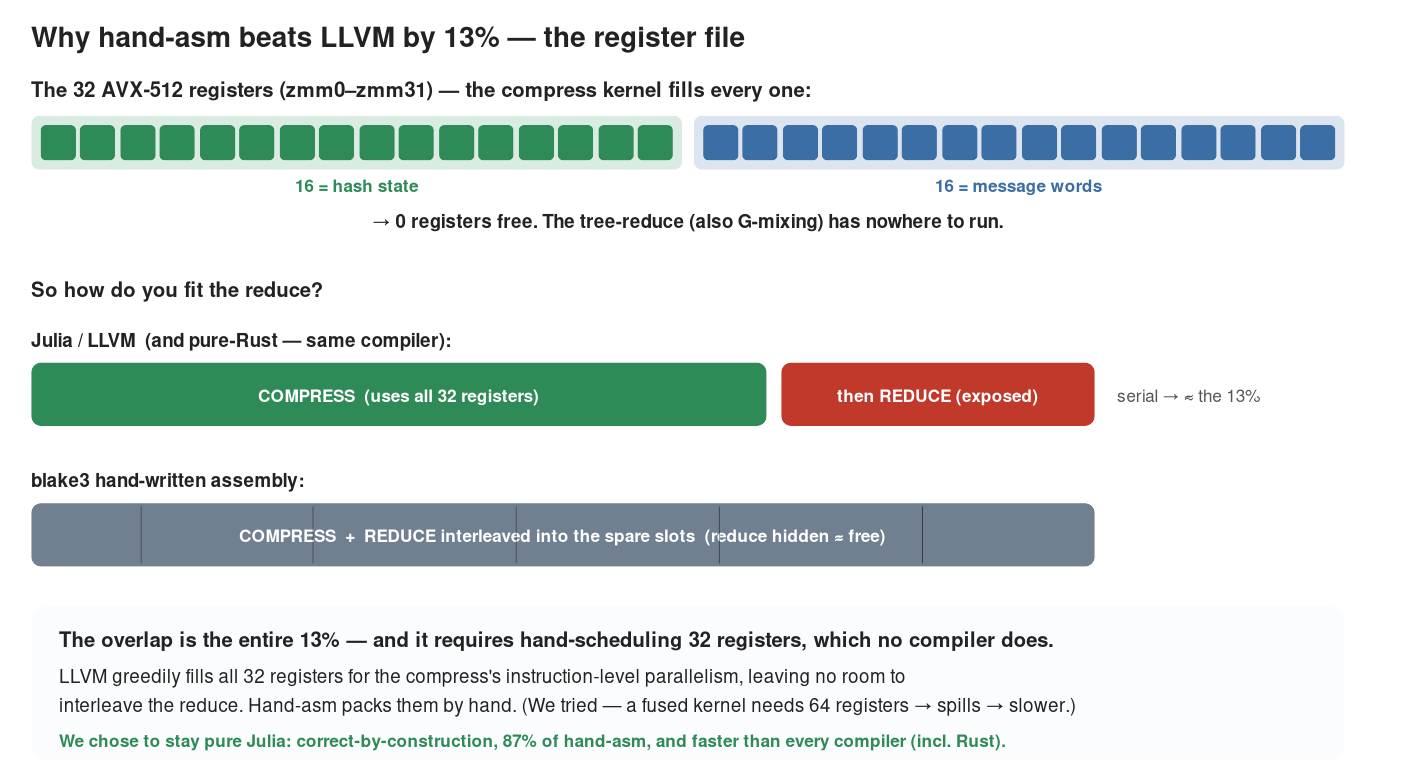
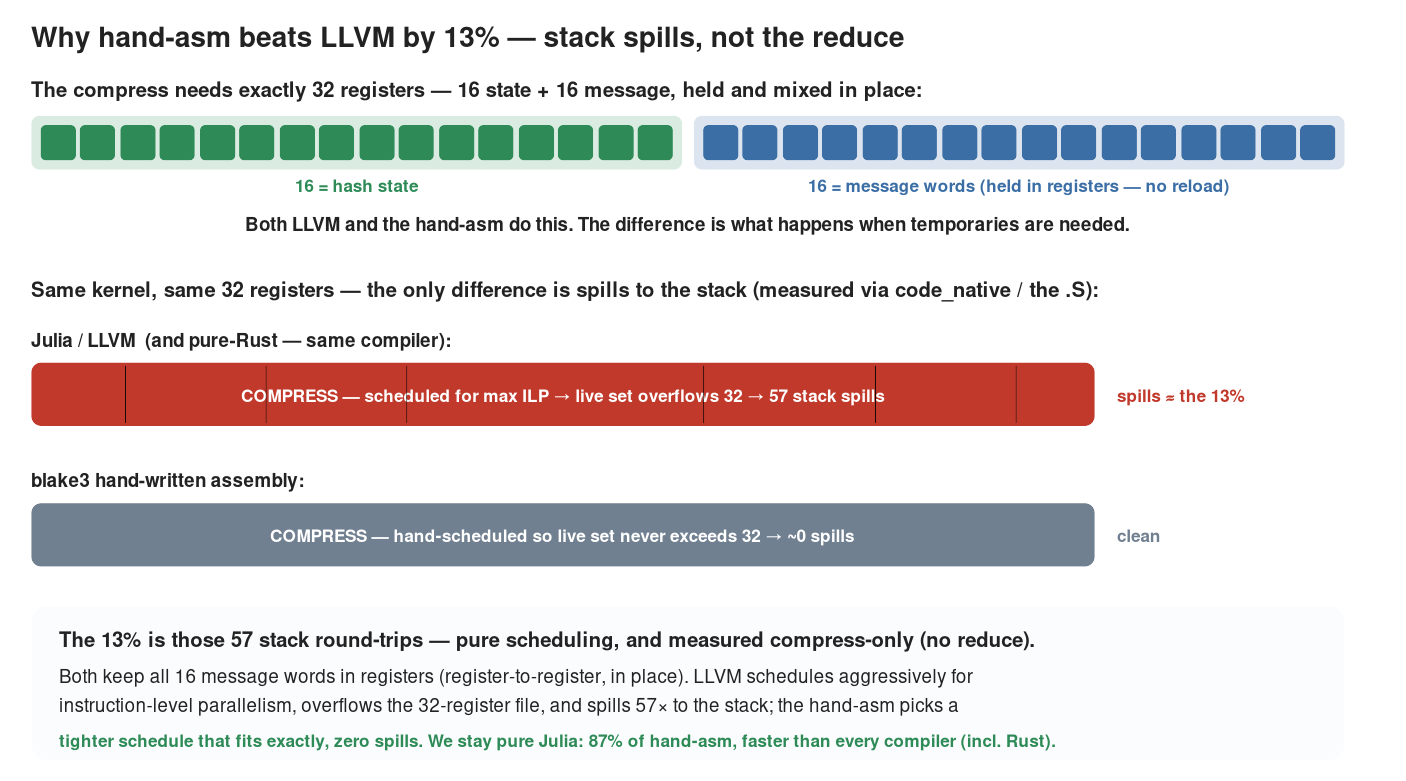
blake3 docs: correct the 13% — it's 57 compress spills, not the reduce
Read blake3's blake3_avx512_x86-64_unix.S next to our code_native. Both kernels are
identical in shape: 32 zmm, 16 message words HELD register-to-register (blake3 = 348/350
round adds reg-to-reg; it does NOT reload to free registers). The only structural
difference is stack spills: blake3 asm ~0, our _compress_N_chunks_body = 57. The asm
hand-schedules to fit exactly 32 live; LLVM schedules for ILP, overflows, spills 57x. That
spill traffic is the 13% — and it is compress-only, the tree-reduce is never involved.

The earlier "register-saturation prevents overlapping the reduce" framing (ports.md +
register SVG) was a misdiagnosis. Rewrote the ports.md blake3 section to the measured spill
table and regenerated blake3_registers.svg/.png to the spill story.

Claude-Session: https://claude.ai/code/session_01SMHDYNdKU21E2VSQTEJcfH

diff --git a/docs/src/ports.md b/docs/src/ports.md
@@ -60,19 +60,27 @@ its bundled `.S` the crate falls back to 8-wide AVX2 and loses to our 16-wide. *
 isn't beating us — a hand-written assembly file is**, and that asm out-runs what *either* language's
 compiler emits by 13%.
 
-### Why the assembly is faster — and why no compiler closes it
+### Why the assembly is faster — it's stack spills, measured
 
 ![Register file: why hand-asm wins](assets/blake3_registers.png)
 
-The compress kernel fills **all 32 AVX-512 registers** (16 hash-state + 16 message words). We measured it
-directly with `code_native`: 32/32 zmm used, 53 spills — *register-saturated*. The tree-reduce is the same
-G-mixing; to hide it inside the compress's spare execution-port slots you'd need free registers, and there
-are none. Hand-asm packs the 32 by hand and interleaves the reduce; LLVM greedily spends all 32 on the
-compress's ILP and runs the reduce as a separate, exposed phase. We exhausted the alternatives to be sure:
-a faithful **recursive wide-stack reduction** (the crate's `compress_subtree` structure) is byte-exact and
-**identical** speed (0.925× vs 0.930×); an **8-way fused leaf** needs 64 registers, spills, and is *slower*
-(0.96×). It's not the algorithm, the cache, or the language — it's LLVM's register scheduling vs hand-asm,
-**the same wall Rust hits** (which is why blake3 ships a `.S` to get around it).
+We read blake3's own `.S` and put it next to our `code_native`, and the difference is **one number: spills.**
+The two kernels are otherwise identical in shape — 32 AVX-512 registers (16 hash-state + 16 message), the
+message **held register-to-register** (348 of blake3's 350 round adds are reg-to-reg — it does *not* reload),
+mixed in place:
+
+| | distinct zmm | stack spills |
+|---|---|---|
+| blake3 hand-asm `hash_many` | 32 | **~0** |
+| our `SIMD.jl` → LLVM | 32/32 | **57** |
+
+The asm hand-schedules so the live set never exceeds 32 — an exact fit, zero stack traffic. LLVM schedules
+the same operations for maximum instruction-level parallelism, overflows the 32-register file, and **spills
+to the stack 57 times.** That spill traffic is the 13%. It is **not** the algorithm, the cache, the language —
+and (correcting an earlier diagnosis here) it is **not the tree-reduce**: this is a *compress-only*
+measurement, the reduce never enters it. It's purely LLVM's allocator/scheduler choosing ILP-with-spills
+where the hand-asm chose exact-fit-no-spills — the same wall Rust's compiler hits, which is why blake3 ships
+a `.S`. Whether LLVM's 57 spills can be driven toward zero from Julia is the open follow-up.
 
 ### We chose to stay pure Julia — no assembly
 